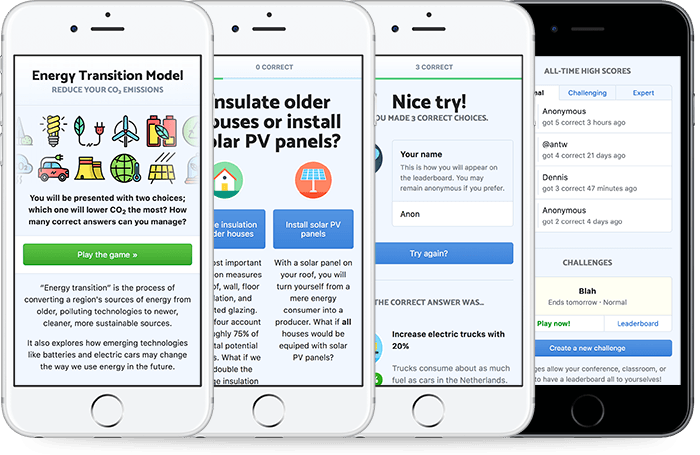
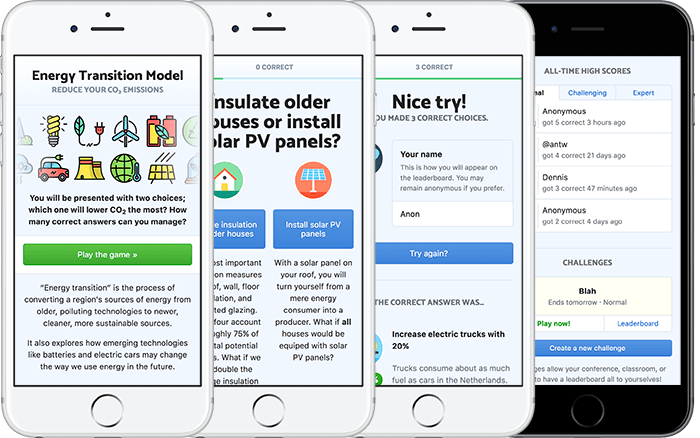
Fix vertical alignment around ETMobile image

diff --git a/app/assets/stylesheets/pages/root.sass b/app/assets/stylesheets/pages/root.sass
@@ -29,14 +29,21 @@ body#pages_root
       max-width: 330px
       margin: 0 auto 50px
       border-radius: 3px
-      box-shadow: 0 2px 14px rgba(0, 0, 0, 0.2)
-      border: 1px solid rgba(0, 0, 0, 0.2)
+      box-shadow: 0 1px 4px rgba(0, 0, 0, 0.2)
+      border: 1px solid rgba(0, 0, 0, 0.15)
       border-top: 1px solid rgba(0, 0, 0, 0.15)
       overflow: hidden
+      background-color: #dedede
       background-clip: padding-box
 
-    .mobile-holder img
-      margin: 1px auto 51px
+    .mobile-holder
+      background: image-url("pages/root/mobile_background.png") 0 1px no-repeat
+      background-size: 100% auto
+      margin: 0 auto
+      padding-bottom: 34px
+
+      img
+        margin: 0 auto
 
     img
       display: block

diff --git a/app/assets/stylesheets/responsive/large_desktop.sass b/app/assets/stylesheets/responsive/large_desktop.sass
@@ -13,6 +13,9 @@ body#pages_root h1 + p
   background-position: 6px 5px
   background-size: 26px 6px
   background-repeat: no-repeat
-  background-color: #dedede
   padding-top: 16px
   border-radius: 3px
+
+#products .product .mobile-holder
+  margin-top: 2px
+  padding-bottom: 37px

diff --git a/app/assets/stylesheets/responsive/phones.sass b/app/assets/stylesheets/responsive/phones.sass
@@ -6,6 +6,9 @@
 body#pages_root
   background-image: image-url('pages/root/sky.png')
 
-body#pages_root h1 + p
-  padding-left: 0
-  padding-right: 0
+  h1 + p
+    padding-left: 0
+    padding-right: 0
+
+  #products .product .mobile-holder
+    max-width: 315px

diff --git a/app/assets/stylesheets/responsive/portrait_tablets.sass b/app/assets/stylesheets/responsive/portrait_tablets.sass
@@ -5,5 +5,5 @@
 body#pages_root
   background-image: image-url('pages/root/sky.png')
 
-#products .product .mobile-holder img
+#products .product .mobile-holder
   max-width: 330px
